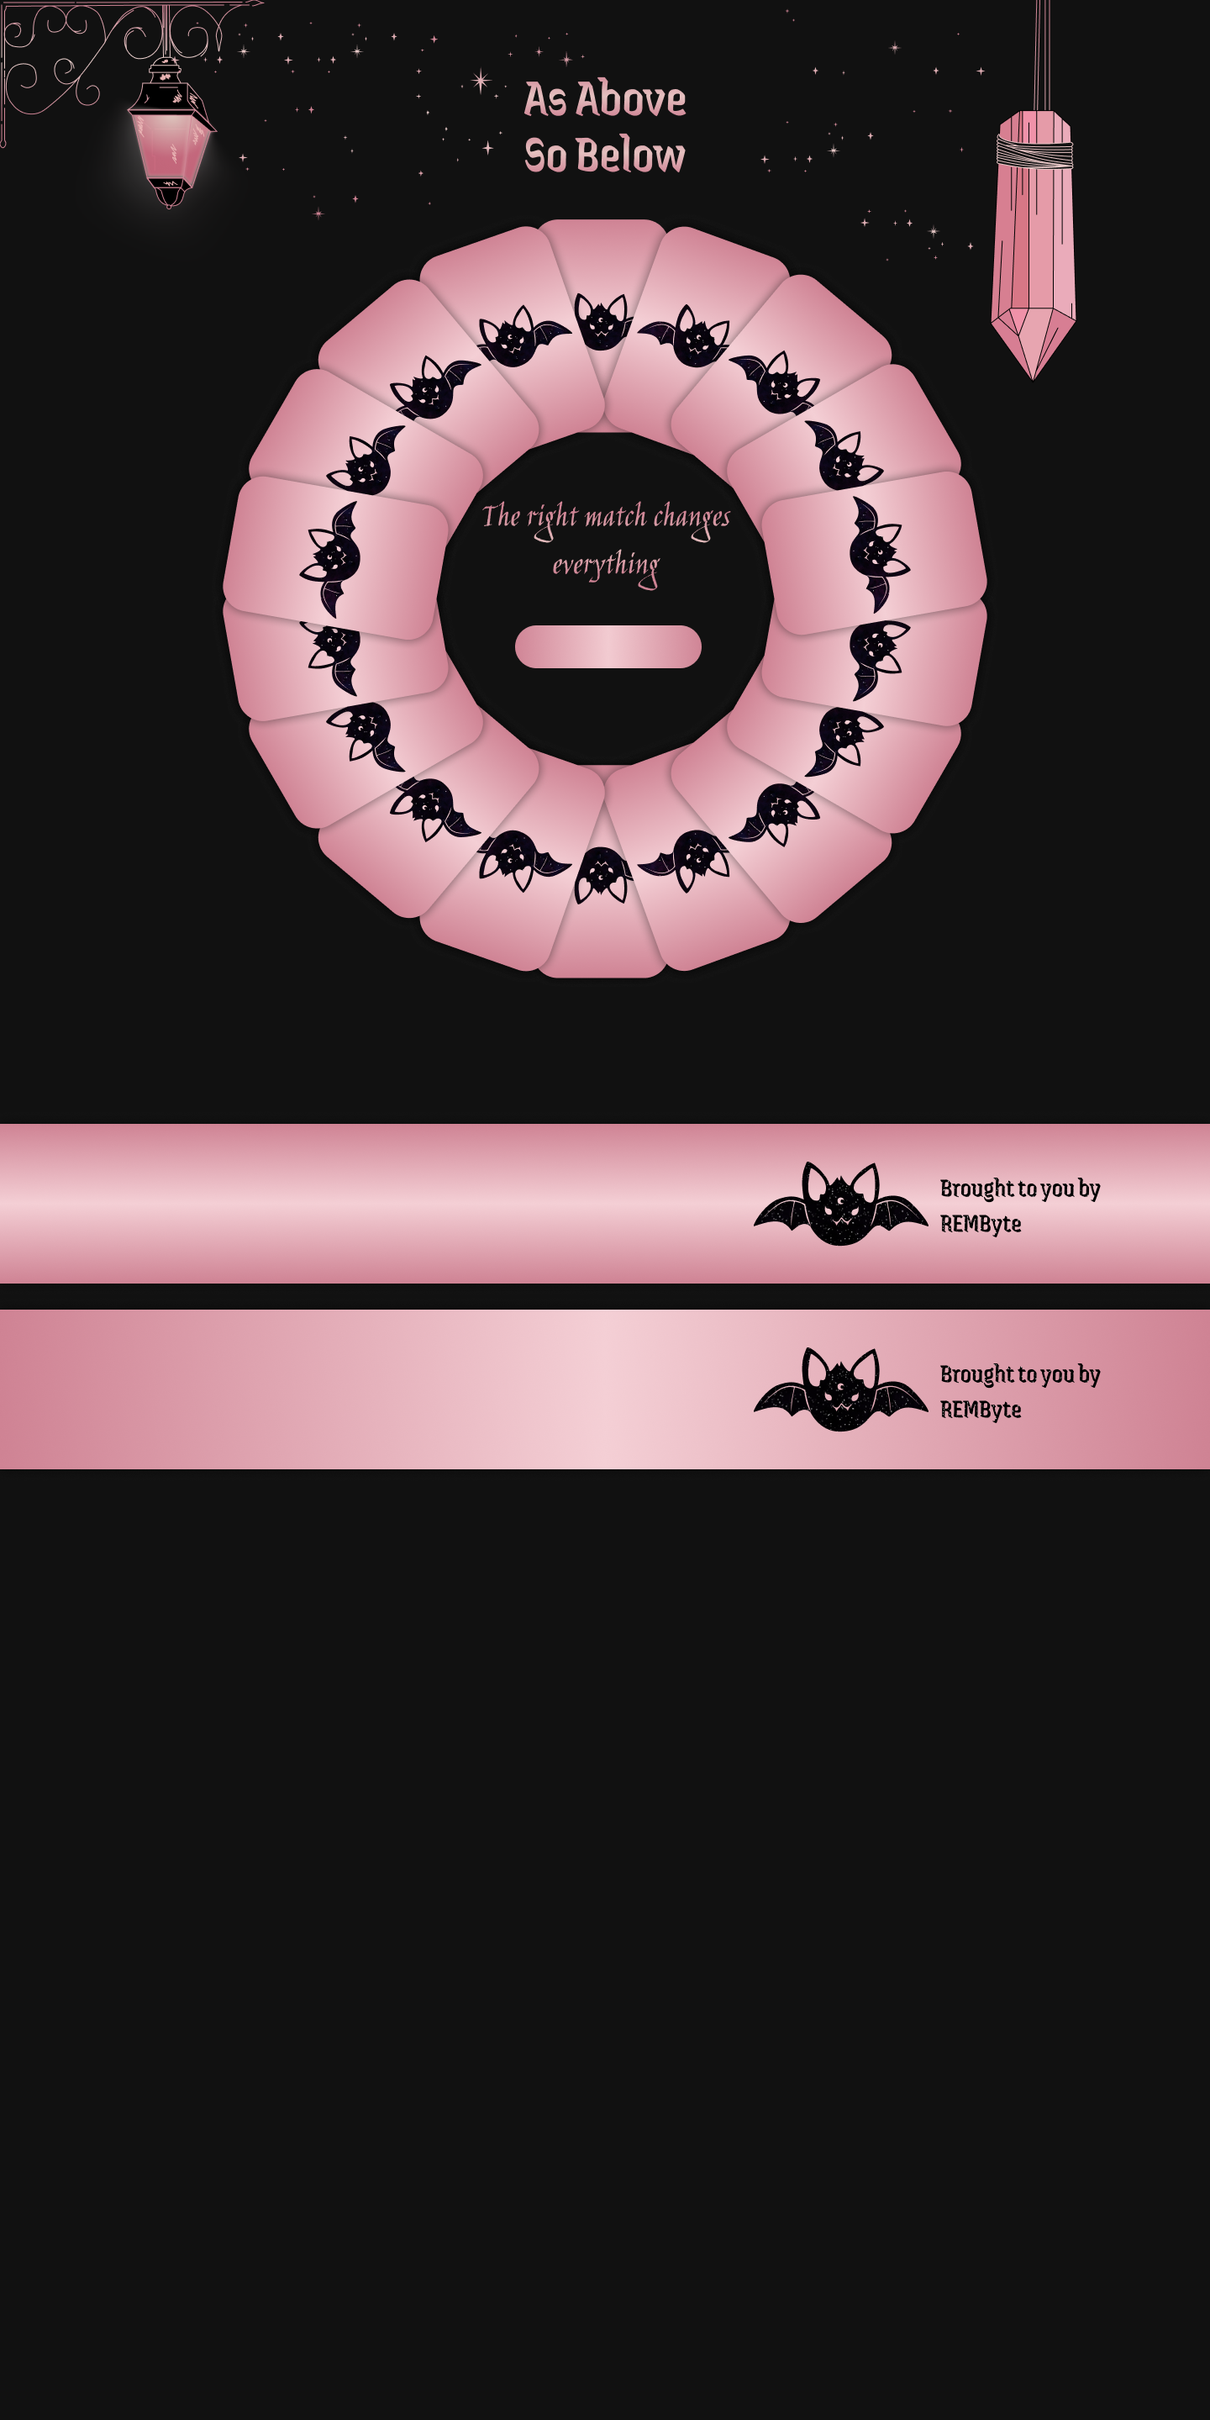
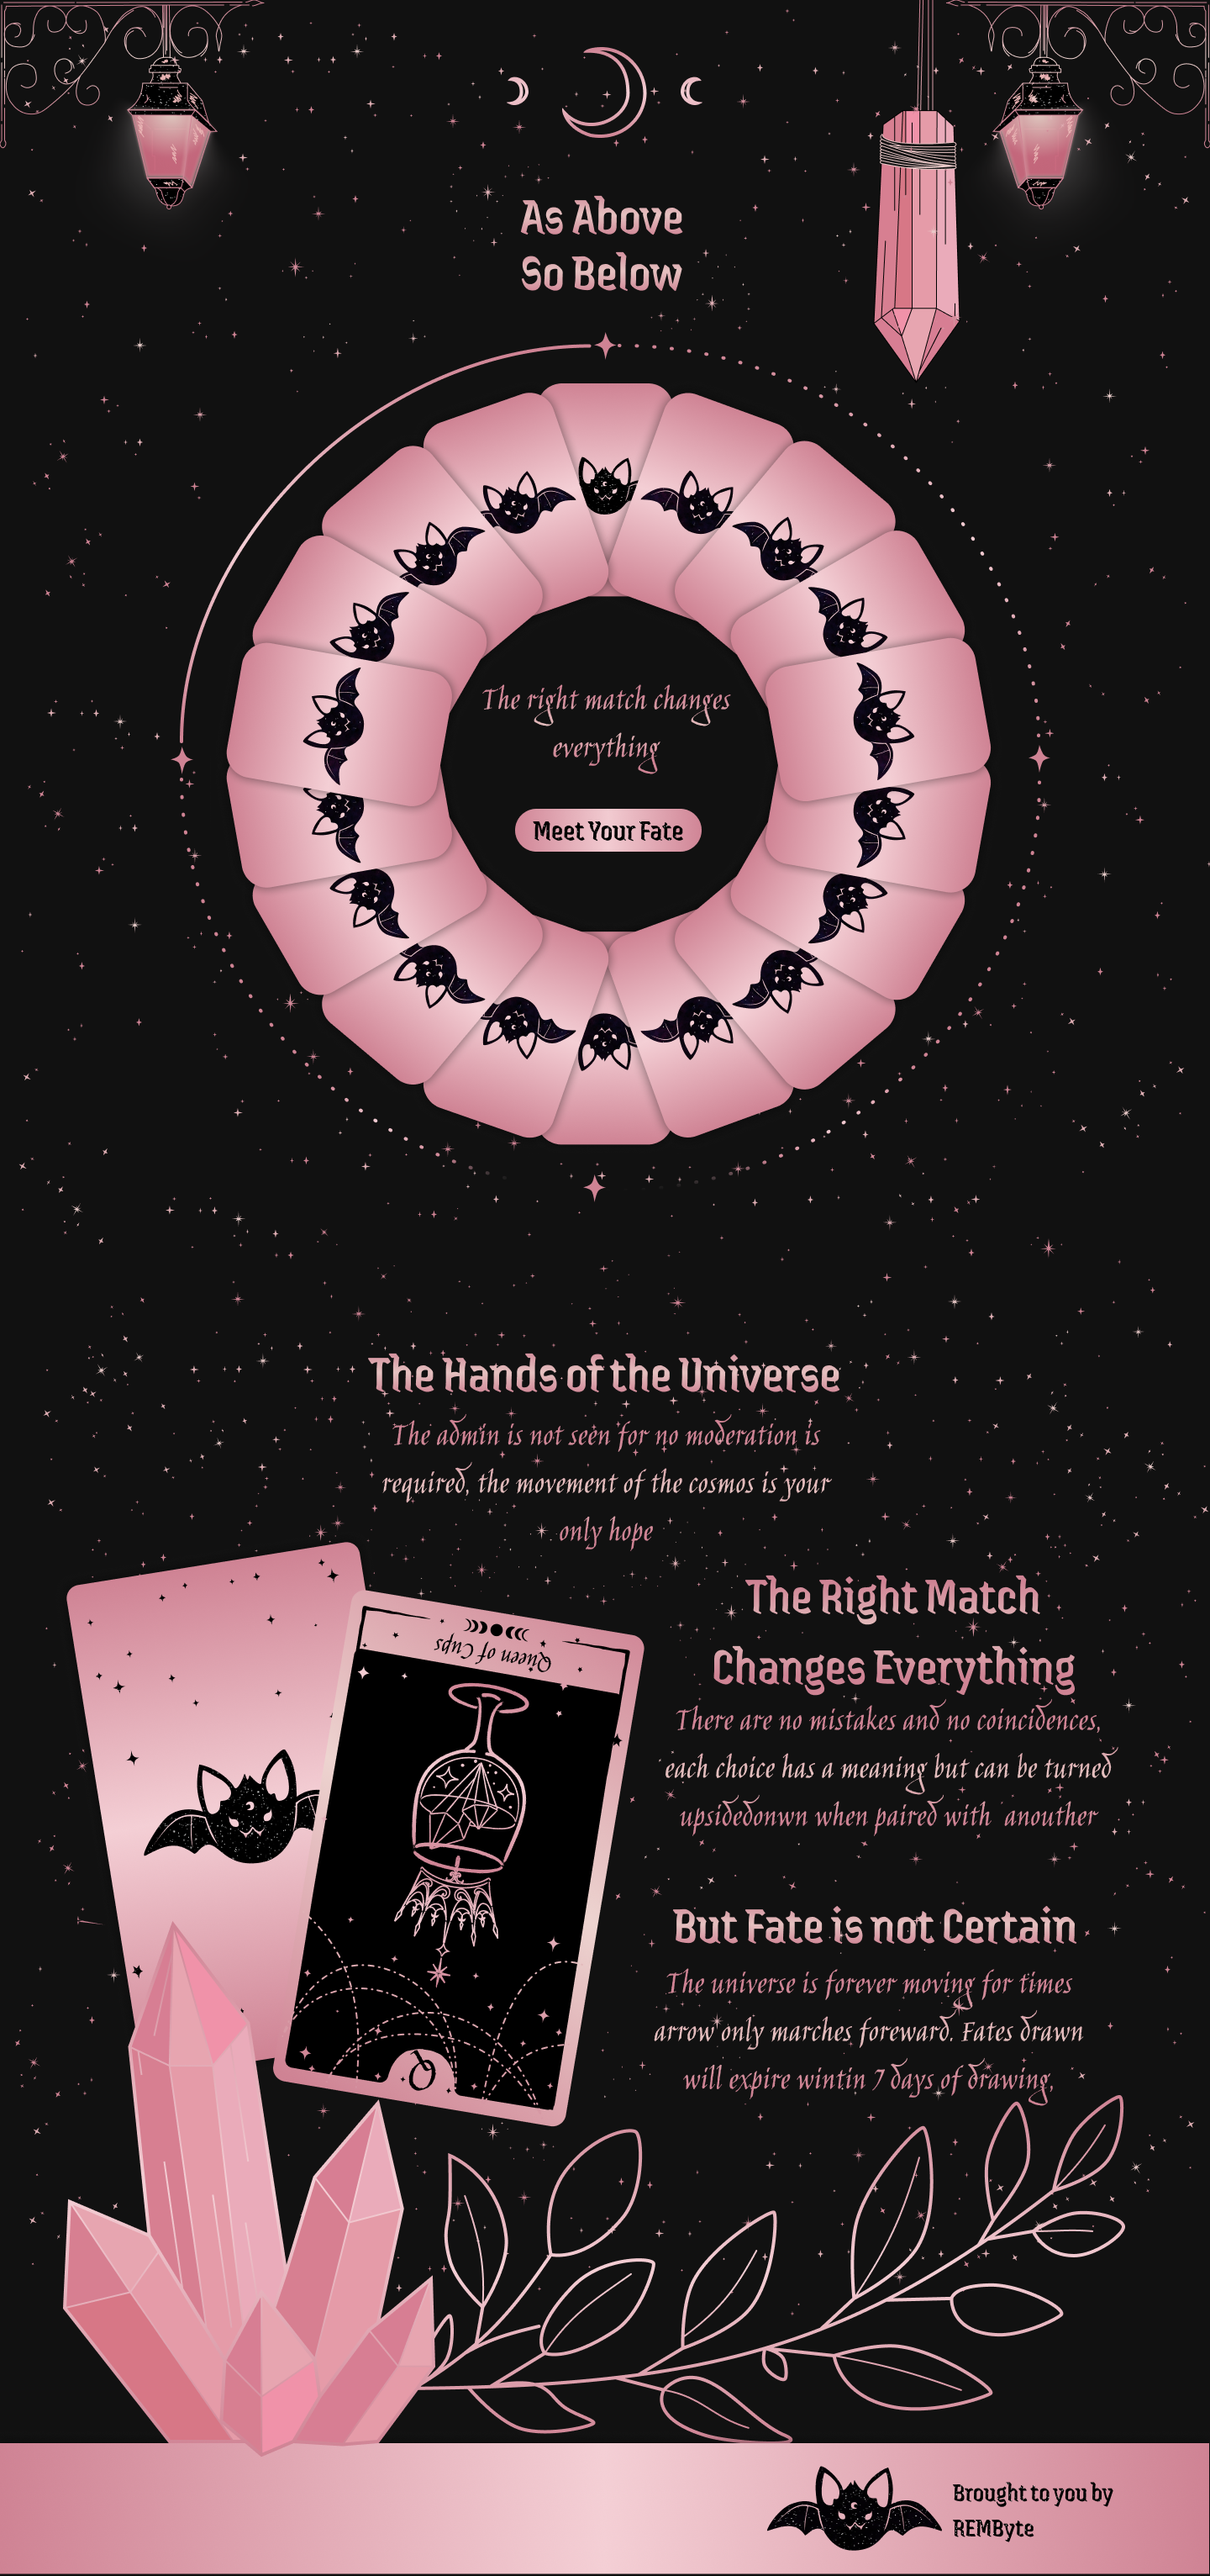
pathc note: readmeupdate

diff --git a/AsAboveSoBelow/stylesheet.css b/AsAboveSoBelow/stylesheet.css
@@ -1,14 +1,15 @@
 @import url('https://fonts.googleapis.com/css2?family=Jaini&family=Jim+Nightshade&display=swap');
 
-body{
+body {
     /* WHY DO I NEED TO PUT IMPORTANT ON THE FUCKING BACKGROUND COLOUR WHHAHAAAAT IS HAPPENINGGF UEHFIU */
     background-color: #111111 !important;
     width: 100vw !important;
+    overflow-x: hidden !important;
 }
 
-body::after{
+body::after {
     content: "";
-    position: fixed;
+    position: absolute;
     top: 0;
     left: 0;
     width: 100%;
@@ -18,11 +19,12 @@ body::after{
     background-position: center;
     z-index: -1;
 }
+
 .font {
     font-family: "Jim Nightshade", cursive;
 }
 
-.header-container{
+.header-container {
     position: relative;
     width: 100vw;
     height: auto;
@@ -30,14 +32,15 @@ body::after{
     display: flex;
     justify-content: center;
     align-items: center;
-    
+
 }
 
-.title-container{
+.title-container {
     display: flex;
     justify-content: center;
     flex-direction: column;
 }
+
 .title {
     font-family: "Jaini", system-ui;
     text-align: center;
@@ -52,25 +55,26 @@ body::after{
     margin: 20px 0;
 }
 
-.lamp{
+.lamp {
     width: 314.335px;
-height: 248.632px;
-aspect-ratio: 177/140;
+    height: 248.632px;
+    aspect-ratio: 177/140;
 }
 
-#left-lamp{
+#left-lamp {
     position: absolute;
     top: 0;
     left: 0;
 
 }
 
-#right-lamp{
+#right-lamp {
     position: absolute;
     top: 0;
     right: 0;
-transform: scaleX(-1);
+    transform: scaleX(-1);
 }
+
 .wheel-title {
     text-align: center;
     font-family: "Jim Nightshade", cursive;
@@ -259,4 +263,25 @@ TAROT WHEEL >:D
         rotate(calc((360deg / var(--total)) * var(--i))) translateY(-390px)
         /* scale(1.08) */
     ;
+}
+
+#footer-container {
+    width: 100vw;
+    background: linear-gradient(270deg, #CF8394 0%, #F4CFD5 50%, #CF8394 100%);
+    display: flex;
+    justify-content: end;
+    align-items: center;
+
+    font-family: "Jaini", system-ui;
+    font-size: 32px;
+    font-style: normal;
+    font-weight: 400;
+    line-height: normal;
+}
+
+#footer{
+    display: flex;
+flex-direction: column;
+justify-content: end;
+align-items: center;
 }

diff --git a/AsAboveSoBelow/index.php b/AsAboveSoBelow/index.php
@@ -48,7 +48,11 @@
   ?>
 
     <div class="wheel-card" style="--i: <?php echo $i; ?>; --total: <?php echo $total_cards; ?>;">
-      <div class="tarot-card-loader"></div>
+      <!-- <div class="tarot-card-loader"></div> -->
+      <?php 
+      include("TarotCard.php");
+      ?>
+       <!-- //instead of injecing the componenet using javascrip -->
     </div>
 
   <?php endfor; ?>
@@ -58,6 +62,14 @@
     </div>
   </div>
 </div>
+<footer>
+  <div id="footer-container">
+    <div id="footer">
+    <img src="assets/rembyte.svg"alt="REMByte Logo" />
+    <h1>Brought to you by REMByte</h1>
+  </div>
+  </div>
+</footer>
 
 <!-- 3. JAVASCRIPT HAPPENS LAST (Browser-side) -->
   <!-- JS waits for the user to click the container -->

diff --git a/README.md b/README.md
@@ -1,3 +1,5 @@
+<img src="/asabovesobelow/icons/Group 93.png" width="100%">
+
 # 🌌 As Above, So Below (A Cosmic Tarot Synthesizer)
 
 > What should I look forward to?
